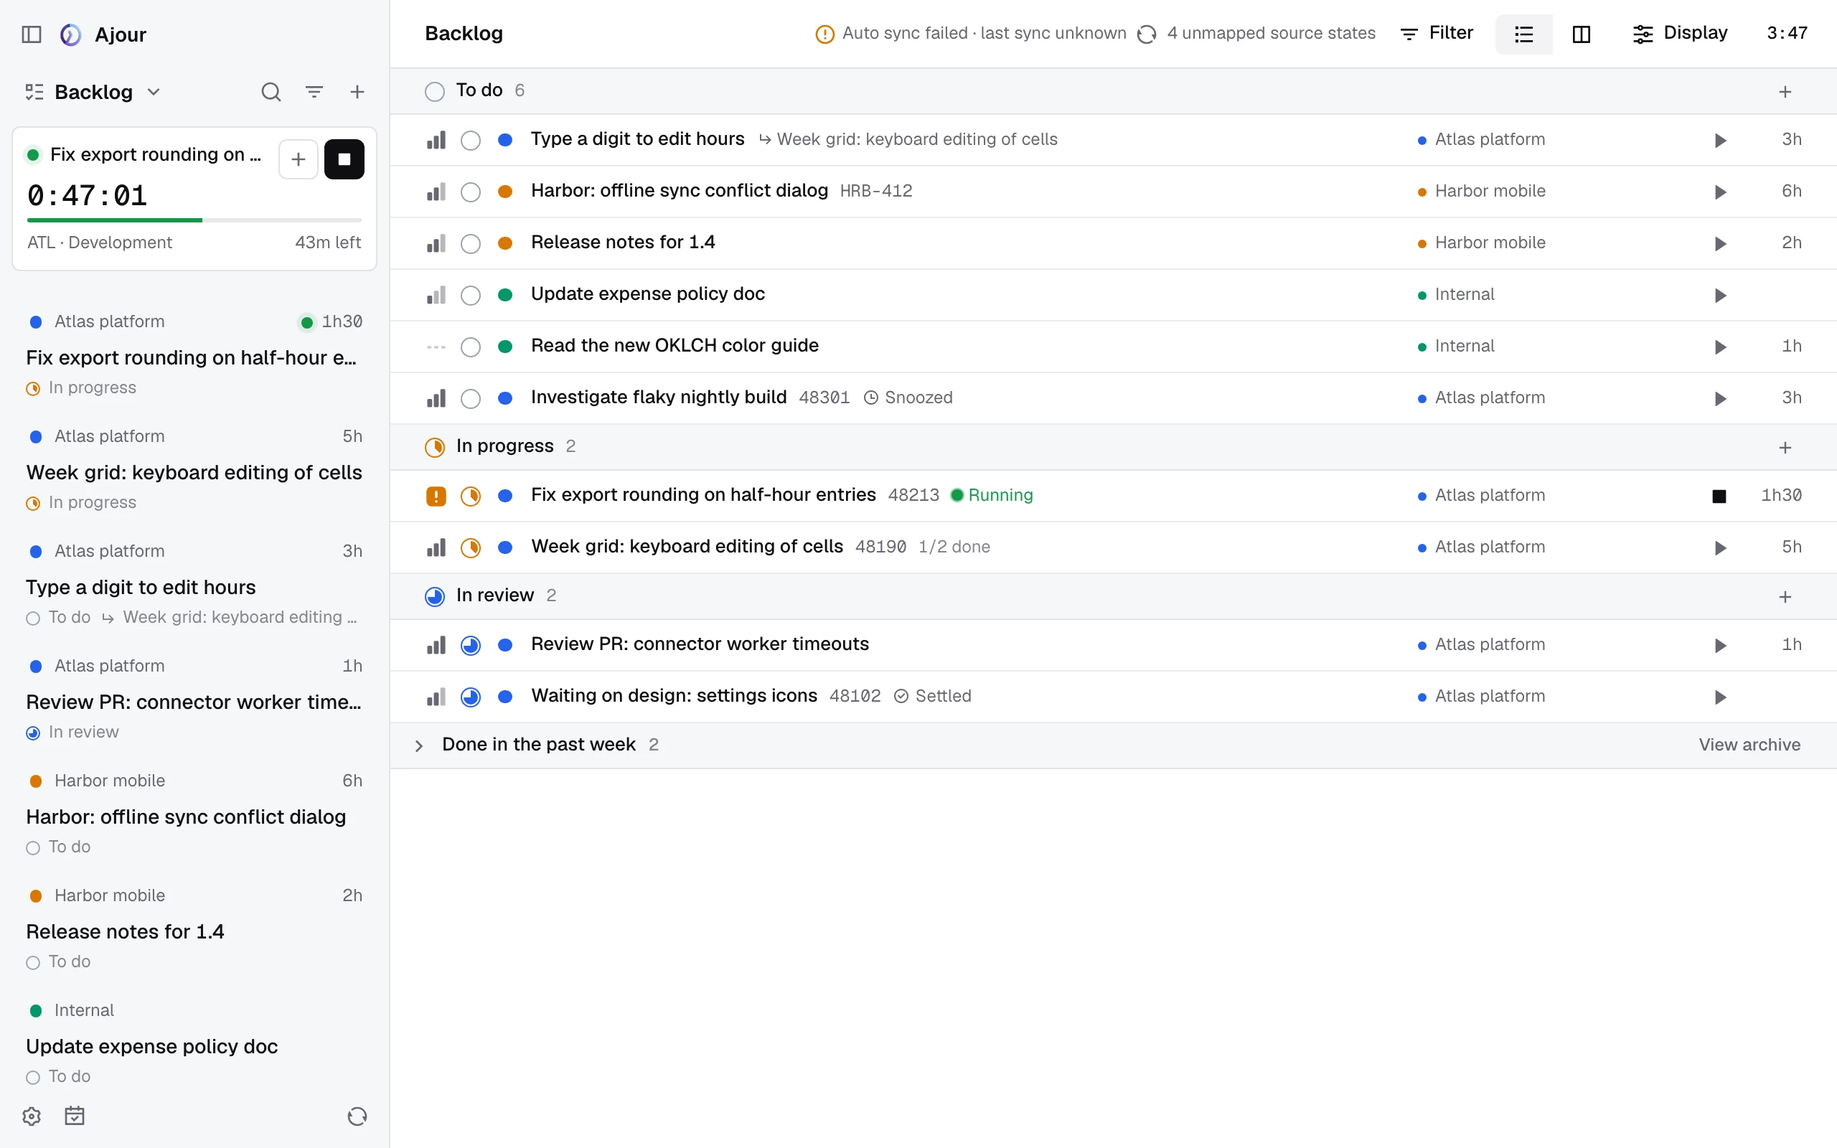
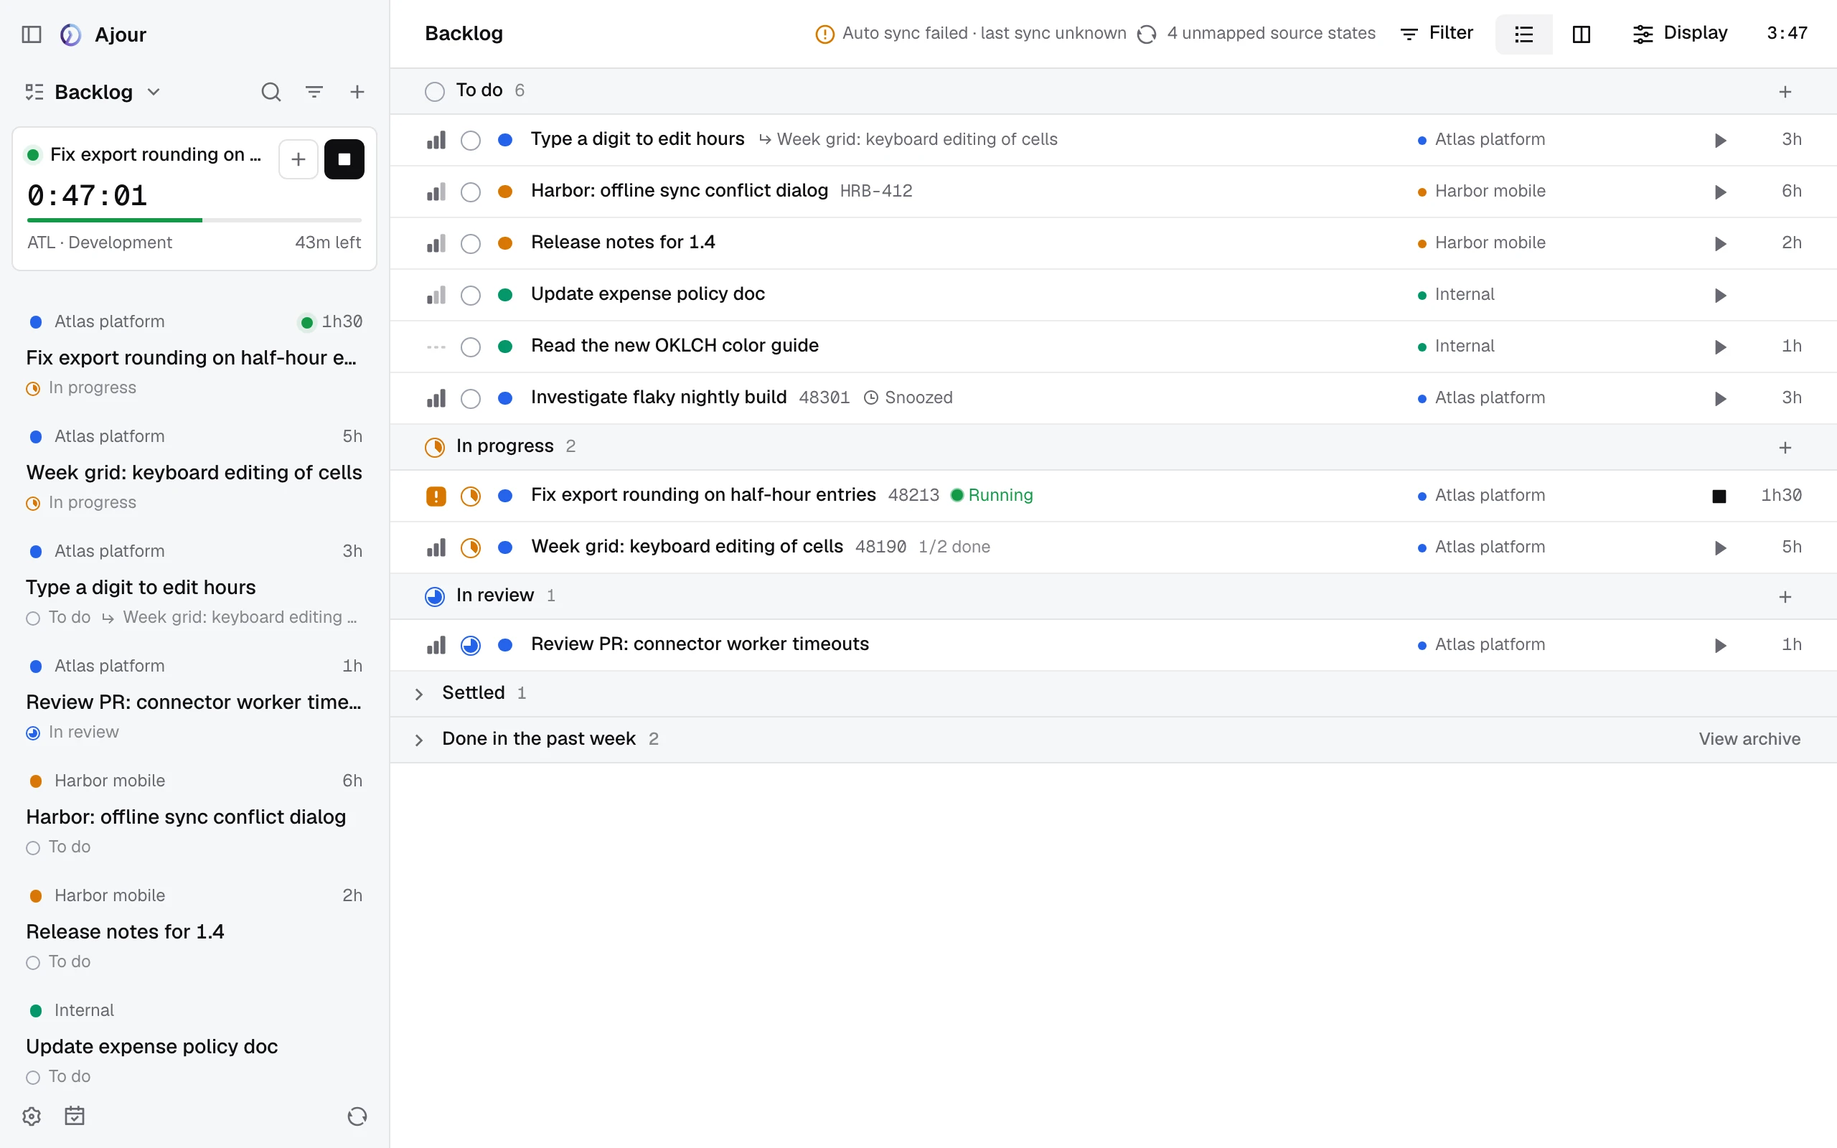
docs(backlog): the Settled shelf and the board's Done column
Documents the Settled shelf, the board's done columns with View archive,
and the per-shelf open state. Adds the backlog-board-done shot and
regenerates the list, board and Done shelf shots.

Changed region(s): [[0.2188, 0.5938, 0.5312, 0.6562], [0.9062, 0.625, 0.9688, 0.6562], [0.7812, 0.5938, 0.8438, 0.625]]

diff --git a/docs/agents/ui-registry.md b/docs/agents/ui-registry.md
@@ -45,7 +45,7 @@ The redesign direction decided on 2026-10-14: Linear's density and structure, Ve
 - Every backlog item action runs through `runBacklogItemAction` in `features/backlog/backlog-item-actions.ts`; hosts only run Edit and Add subitem. Snooze… opens the one `SnoozePickerHost` from `features/backlog/snooze-picker.tsx`, mounted in the app shell. `useNow` from `lib/use-now.ts` re-renders views that hide snoozed items, so a snooze ends on its own. `getSettleBehavior` in `features/backlog/settle-dialog.tsx` decides what Settle does. Items whose backlog plugin can't settle are settled locally at once. Otherwise the source project's settle rule decides: Ask opens the one `SettleDialogHost`, also mounted in the app shell, and Apply settles with the rule's change. Shift+E (`item.settle-ask`) and Shift-click open the dialog prefilled with the rule, and action menus label Settle "Settle…" when it opens the dialog. Settings > Backlog edits the rules in `features/settings/settle-rules-section.tsx`, and `domain/backlog/settle-rules.ts` owns them. Settings > Calendar (`features/settings/settings-calendar-page.tsx`), listed under Work only while a calendar plugin is on, holds the suggestion filters, the refresh interval and the Remembered meetings list, whose Remove offers Undo. Its copy says remembered and hidden meetings, never rule. `features/backlog/backlog-source-writes.ts` sends a settle's pending write when its Undo toast closes (`offerUndo`'s `onWindowClosed`) and at launch.
 - The backlog item page, `features/backlog/backlog-item-page.tsx` at `/backlog/$itemId`, puts a "<project> / <title>" breadcrumb (the project's icon and name, linking to its page, or "Backlog" without a project) in the top bar, then a subtle "Back to Backlog" link with a back arrow above the 20px title with a plain secondary meta line (type · source link · freshness; the project is in the breadcrumb and the properties, council round 9), and the item's actions (the "Item actions" group) at the title's right, a state notice, the estimates as a `FigureRow` over a 3px progress bar, and the description (rendered as markdown) beside a column of `backlog-item-card`s on `--surface-tint` under a hairline border: the properties, then the Subitems and Time entries cards from `backlog-item-side-cards.tsx`. Each of those has a chevron title that opens or closes it and a + at its top right, a `TooltipButton` (Add subitem opens the card on the name field until it closes, without saving it open, and Escape gives focus back to the page; Add time entry opens the new entry popover on the +). They start closed on a summary: a 3px segment per subitem, filled when done (one bar past ten), and the hours left, or the entry count and the last day. The counts come from `getSubitemProgress` and `getSubitemHoursLeft` in `domain/backlog/backlog-view.ts`. `lib/backlog-item-cards.ts` saves which are open per device. Open, they list `backlog-item-row`s. The page edits in place (`backlog-item-inline-edit.tsx`): click the title or an estimate to type, and the description's subtle Edit swaps the markdown for `MarkdownEditor` (⌘/Ctrl+Enter or blur saves). Each saves on Enter or blur with the Undo toast; Escape cancels. The card's rows come from `BacklogItemProperties`, shared with the peek, plus Source, and Archive at the bottom of the card for synced items, as a `PropertyAction` from `components/property-list.tsx`: a borderless 28px row of a 16px icon beside a muted label that brightens on hover. The shared rows end with Missing from sync for synced items, a ghost menu of Archive automatically and Keep in backlog under a "Missing from sync" label, so the peek has it too.
 - The item page and the peek render a description without its frontmatter: `splitDescription` from `domain/backlog/description-frontmatter.ts` returns the body for `Markdown` and the fields as a tree. `BacklogItemProperties` shows the fields through `features/backlog/frontmatter-properties.tsx`: `FrontmatterRows` adds plain values as rows of its `PropertyList`, and `FrontmatterSections` follows with a closed section per list or nested key, each a `PropertySection` from `components/property-list.tsx`, the collapsible section the project page's plugin properties also use. `lib/frontmatter-sections.ts` keeps which sections are open per device, by key path. Before them, a synced item gets `BacklogItemSourceSection` from `features/backlog/backlog-item-source-section.tsx`, the same `PropertySection` titled by the plugin's display name from the plugins overview, with the number in a muted `Value` as its trailing value and the `BacklogRefresh` control in its Synced row; `lib/backlog-item-cards.ts` remembers it closed. The description text renders through `DescriptionText` from `features/backlog/description-links.tsx`, which listens for clicks on its web links; it and the field links ask through `useLinkQuestion`'s `AlertDialog`, one per card, while `asksBeforeOpeningDescriptionLinks` from `domain/local-state.ts` is true, then open with `openSourceUrl`. `TimelogButton` in `features/backlog/timelog-button.tsx` follows the Project picker in `BacklogItemProperties` while `getTimelogMismatch` from `domain/backlog/description-timelog.ts` finds a difference: an amber warning with an `AlertDialog` for a missing project or task, or a muted back arrow that applies at once. An archived item, read-only until Restore, shows none. Both call `localStore.applyTimelogWithUndo`. The store applies a changed timelog in `updateWorkItem`, `updateWorkItemWithUndo`, `addWorkItem` and `importSyncedWorkItems` through `applyDescriptionTimelogs`.
-- The Backlog page puts its actions (Search, Filter, layout toggle, Display) in the top bar without a repeated title or count. Search is the sidebar's expanding box, `components/expanding-search.tsx`, bound to `lib/backlog-search.ts` in `features/backlog/backlog-search.tsx`. A 40px filter row follows, with a Filter button that uses the sidebar's filter icon. It lists the fields, then the picked field's values as a checkable `Command` list that stays open. Each filtered field is one chip ("State To do, In progress"): the chip opens the same list and its × removes the field. Values of one field match any, fields must all match. The State filter's Archived value lists every archived item, including those that left the sync. then 32px sticky group headers, each with a + that adds an item to that group, and 36px list rows with fixed leading columns (priority, id, state, type) so titles align whether or not an item has an id; the project is a `Chip` and the estimate a mono value at the row's end. An ungrouped list or board has no header, so it ends with a "New backlog item" row instead. `BacklogDoneShelf` in `features/backlog/backlog-done-shelf.tsx` closes the page: a group header whose title toggles it, with View archive, over list rows; `splitDoneShelf` in `domain/backlog/backlog-view.ts` picks its items. Board columns sit on a faint `--highlight-bg` tint and board cards are flat 6px `--surface` cards above it. The Display popover's choices are shadcn `Select`s. The pull request pages follow the same anatomy: title and Sync in the bar, `SectionHeading`s over rows, a subtle back link and `PropertyList` on the detail page. The Backlog page root is the focused object, so Enter edits, E settles and B snoozes. Edit opens the backlog item editor in a `SidePanel` over the Backlog page. On the item page there is no editor or "…" menu: Enter and `?action=edit` start renaming the title, and `?action=add-subitem` opens the subitem name field.
+- The Backlog page puts its actions (Search, Filter, layout toggle, Display) in the top bar without a repeated title or count. Search is the sidebar's expanding box, `components/expanding-search.tsx`, bound to `lib/backlog-search.ts` in `features/backlog/backlog-search.tsx`. A 40px filter row follows, with a Filter button that uses the sidebar's filter icon. It lists the fields, then the picked field's values as a checkable `Command` list that stays open. Each filtered field is one chip ("State To do, In progress"): the chip opens the same list and its × removes the field. Values of one field match any, fields must all match. The State filter's Archived value lists every archived item, including those that left the sync. then 32px sticky group headers, each with a + that adds an item to that group, and 36px list rows with fixed leading columns (priority, id, state, type) so titles align whether or not an item has an id; the project is a `Chip` and the estimate a mono value at the row's end. An ungrouped list or board has no header, so it ends with a "New backlog item" row instead. Two `BacklogShelf`s from `features/backlog/backlog-shelf.tsx` close the page, Settled then Done: a group header whose title toggles it, with an optional action such as View archive, over list rows; `splitBacklogShelves` in `domain/backlog/backlog-view.ts` picks their items; on the board grouped by state its `doneInGroups` keeps archived items in the done columns, whose headers then carry View archive. Board columns sit on a faint `--highlight-bg` tint and board cards are flat 6px `--surface` cards above it. The Display popover's choices are shadcn `Select`s. The pull request pages follow the same anatomy: title and Sync in the bar, `SectionHeading`s over rows, a subtle back link and `PropertyList` on the detail page. The Backlog page root is the focused object, so Enter edits, E settles and B snoozes. Edit opens the backlog item editor in a `SidePanel` over the Backlog page. On the item page there is no editor or "…" menu: Enter and `?action=edit` start renaming the title, and `?action=add-subitem` opens the subitem name field.
 
 ## Surfaces
 

diff --git a/docs/agents/ux-spec.md b/docs/agents/ux-spec.md
@@ -588,7 +588,7 @@ Decided in [Backlog page under the new conventions](https://github.com/les-caboc
 - The user defines a workflow in Settings > Workflow: an ordered list of workflow states, each with a name and a color. New workspaces start with To do, In progress, In review and Done.
 - A state can carry the Done flag, and more than one can, such as Done and Canceled. The workflow keeps at least one done state.
 - Moving an item into a done state settles and archives it. Moving it out of one makes it active again and unsettles it. No other state changes whether an item is active, settled or archived. Settle and Snooze stay explicit actions.
-- A settled item stays in its state's column with a muted Settled marker and its settle date.
+- A settled item leaves its state's column for the Settled shelf. See Shelves.
 
 ### Mapping source states
 
@@ -632,7 +632,7 @@ The Display popover holds:
 - Grouping: workflow state (the default), priority, project, or none. None is list-only.
 - Swimlanes, on the board only: None (the default) or Project. One collapsible swimlane per project, with "No project" last. Hidden when grouping is Project.
 - Ordering: Custom (the default), Priority, Created, Remaining estimate or Title.
-- Done items: Past week (the default), All or None. It sets what the Done shelf holds; None hides the shelf.
+- Done items: Past week (the default), All or None. It sets what the Done shelf holds, or the done columns on the board grouped by state; None hides them.
 - Show settled items and Show subitems, both on by default.
 - Display properties: ID, priority, project, estimate and source state.
 
@@ -673,16 +673,16 @@ The layout, grouping, swimlanes, done window, toggles and properties are saved p
 - Included synced subitems are written through their own source project's mapping. Subitems already settled or archived are left alone.
 - Reopening the parent brings back the subitems that closed with it.
 
-### Done shelf
+### Shelves
 
-- Archived items leave their group, in every grouping and layout, so the groups and columns hold only open work. A done state's column stays on the board as a drop target.
-- The archived items within the done window wait on the Done shelf at the end of the page, after every group and swimlane: "Done in the past week" with Past week, "Done" with All. It lists them as list rows, latest archived first, on the board too.
-- The shelf starts closed. Its header shows the count; its title opens and closes it, and the device remembers which. The shelf hides while it is empty.
+- Settled and archived items leave their group, in every grouping and layout, so the groups and columns hold only the work on the user's plate. One exception: on the board grouped by state, archived items within the done window stay in their done state's column, and that column's header has View archive. That board has no Done shelf.
+- Two shelves end the page, after every group and swimlane. The Settled shelf holds every settled item, latest settled first. "Show settled items" off hides it with its items. The Done shelf holds the archived items within the done window, latest archived first: "Done in the past week" with Past week, "Done" with All.
+- Both list their items as list rows, on the board too. Each starts closed. Its header shows the count; its title opens and closes it, and the device remembers which, per shelf. A shelf hides while it is empty.
 - Shelf rows select, peek and open like other rows, and carry the same actions. They don't drag or reorder.
 
 ### Archive
 
-- Archive is the list under the State filter's Archived value: every archived item, including items older than the done window and items archived because they dropped out of the sync. "View archive" on the Done shelf's header opens it, replacing any State filter; removing the State chip goes back. The archive has no shelf: its items stay in their groups. Restore puts an item back in its state's column.
+- Archive is the list under the State filter's Archived value: every archived item, including items older than the done window and items archived because they dropped out of the sync. "View archive" on the Done shelf's header, or on a done column's header on the board, opens it, replacing any State filter; removing the State chip goes back. The archive has no shelves: its items stay in their groups. Restore puts an item back in its state's column.
 
 ### Keyboard
 

diff --git a/apps/docs/backlog/index.md b/apps/docs/backlog/index.md
@@ -40,17 +40,26 @@ Click a row, or focus it and press <kbd>Space</kbd>, to open the peek: the item'
 
 <Shot name="backlog-peek" alt="The peek next to the backlog list" />
 
-## Done items
+## Settled and done items
 
-Done items are archived. They leave their group, so the list and the board show only the work still open, whatever the grouping.
+Settled and done items leave their group, so the list and the board show only the work on your plate, whatever the grouping. Done items are archived.
 
-Items archived in the past week wait on the **Done in the past week** shelf at the end of the page. The shelf starts closed and shows how many items it holds. Click its title to open it, and click again to close it. Ajour remembers on this device whether it is open. To change how far back the shelf goes, see **Done items** in [Display options](/backlog/display-options).
+Two shelves end the page:
+
+- **Settled** holds every [settled](/backlog/settle-and-snooze) item, the latest settled first.
+- **Done in the past week** holds the items archived in the past week, the latest first. To change how far back it goes, see **Done items** in [Display options](/backlog/display-options).
+
+Each shelf starts closed and shows how many items it holds. Click its title to open it, and click again to close it. Ajour remembers on this device which shelves are open.
+
+On the board grouped by workflow state, the **Done** column holds the items done in the past week instead of a shelf, and its header has **View archive**.
+
+<Shot name="backlog-board-done" alt="The board's Done column with View archive in its header" />
 
 <Shot name="backlog-done-shelf" alt="The open Done shelf at the end of the Backlog list" />
 
 ## Archive
 
-The archive holds every archived item, including older ones and items archived because they left a sync. Press **View archive** on the Done shelf, or press **Filter**, choose **State**, then **Archived**. Remove the **State** filter to go back to your open work.
+The archive holds every archived item, including older ones and items archived because they left a sync. Press **View archive** on the Done shelf or on the board's **Done** column, or press **Filter**, choose **State**, then **Archived**. Remove the **State** filter to go back to your open work.
 
 To put an item back in your backlog, open its **…** menu, or open the item, and press **Restore**.
 

diff --git a/apps/docs/backlog/display-options.md b/apps/docs/backlog/display-options.md
@@ -8,15 +8,15 @@ Ajour saves display options on this device. Ordering is shared with the sidebar,
 
 ## Options
 
-| Option                 | Values                                                                                   |
-| ---------------------- | ---------------------------------------------------------------------------------------- |
-| **Layout**             | List or board.                                                                           |
-| **Grouping**           | **Workflow state** (default), **Priority**, **Project**, or **None** in the list layout. |
-| **Swimlanes**          | On the board: **None** or **Project**.                                                   |
-| **Ordering**           | **Custom** (default), **Priority**, **Created**, **Remaining estimate** or **Title**.    |
-| **Done items**         | What the Done shelf holds: **Past week** (default), **All** or **None**, which hides it. |
-| **Show settled items** | Shows settled items, marked **Settled**. On by default.                                  |
-| **Show subitems**      | Shows subitems. On by default.                                                           |
+| Option                 | Values                                                                                                |
+| ---------------------- | ----------------------------------------------------------------------------------------------------- |
+| **Layout**             | List or board.                                                                                        |
+| **Grouping**           | **Workflow state** (default), **Priority**, **Project**, or **None** in the list layout.              |
+| **Swimlanes**          | On the board: **None** or **Project**.                                                                |
+| **Ordering**           | **Custom** (default), **Priority**, **Created**, **Remaining estimate** or **Title**.                 |
+| **Done items**         | What the Done shelf, or the board's Done column, holds: **Past week** (default), **All** or **None**. |
+| **Show settled items** | Shows the Settled shelf. On by default.                                                               |
+| **Show subitems**      | Shows subitems. On by default.                                                                        |
 
 ## Custom order
 

diff --git a/docs/agents/library-docs.md b/docs/agents/library-docs.md
@@ -86,7 +86,7 @@ The backlog editor module is feature-local because its vocabulary and commands b
 
 ### Backlog views
 
-- Selection, filtering, grouping and ordering: `domain/backlog/backlog-view.ts`. Its `splitDoneShelf` takes archived items out of the groups for the Done shelf. Its `isBacklogReorderPeer` says which items a drag or Alt+Up and Alt+Down moves an item among under each ordering.
+- Selection, filtering, grouping and ordering: `domain/backlog/backlog-view.ts`. Its `splitBacklogShelves` takes settled and archived items out of the groups for the Settled and Done shelves. Its `isBacklogReorderPeer` says which items a drag or Alt+Up and Alt+Down moves an item among under each ordering.
 - Device-local preferences: `lib/backlog-view-settings.ts`. Ordering stays in local state.
 - Page orchestration: `features/backlog/backlog-page.tsx`.
 - Display controls and filters: `features/backlog/backlog-display.tsx`.

diff --git a/apps/docs/backlog/settle-and-snooze.md b/apps/docs/backlog/settle-and-snooze.md
@@ -12,7 +12,7 @@ When you settle or snooze the item whose page is open, Ajour opens the next item
 Press **Settle** on the item, or focus it and press <kbd>E</kbd>.
 
 - A **manual** item is archived.
-- A **synced** item becomes **settled**. It leaves your plate but stays in the backlog, in the sidebar's **Settled** section.
+- A **synced** item becomes **settled**. It leaves your plate but stays in the backlog, in the sidebar's **Settled** section and on the Backlog page's **Settled** shelf.
 
 Settling a synced item can also write a change to its source, such as moving the Azure DevOps work item to `Resolved` or lowering its priority. By default, **Settle** on a synced item opens the settle dialog so you can choose. Leave a field as it is to write nothing for it.
 
